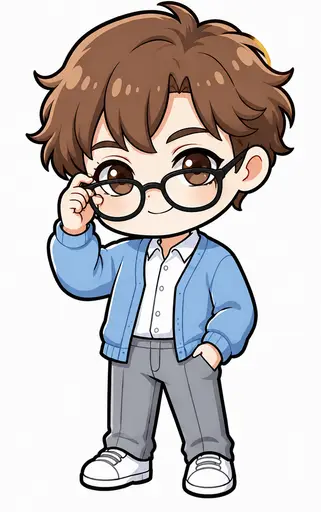
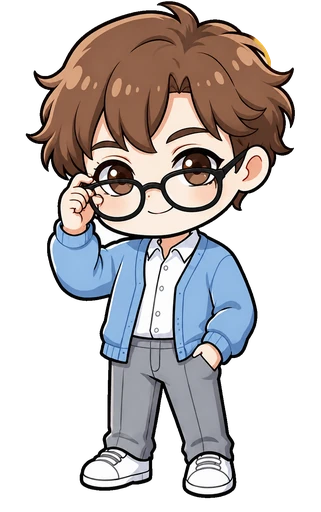
Add transparent character variants and PNG group delivery asset

diff --git a/NAVI-USAGE.md b/NAVI-USAGE.md
@@ -68,7 +68,7 @@ assets/characters/kai/fullbody/checking-note.png
 assets/web/characters/kai/fullbody/checking-note.webp
 ```
 
-WebP版は長辺最大512pxの配信用派生ファイルです。縦横比・透過状態を維持し、教材での52px前後の小表示から200〜400px程度の表示までを想定しています。原本PNGは高解像度表示、印刷、制作・再編集、WebPでは不足する特殊用途に限定します。
+WebP版は長辺最大512pxの配信用派生ファイルです。縦横比・透過状態を維持し、教材での52px前後の小表示から200〜400px程度の表示までを想定しています。`group-jumping`だけは、元画像がJPEGのため`assets/web/groups/group-jumping.png`を使用します。原本PNGは高解像度表示、印刷、制作・再編集、WebPでは不足する特殊用途に限定します。
 
 AIが教材を作成・修正するときは、理由なく1〜2MBの原本PNGを直接参照せず、対応するWebP URLを選択してください。既存のPNG URLは互換性のため維持し、教材リポジトリを移行するときもパスを推測せず`catalog.json`で対応を確認します。
 

diff --git a/AI-GUIDE.md b/AI-GUIDE.md
@@ -15,6 +15,7 @@
 7. 画像は教材側に複製せず、このリポジトリの公開済みURLを参照する。
 8. Web教材・GitHub Pagesでは、原則として`assets/web/`以下のWebP版を使う。理由なく1〜2MBの原本PNGを直接参照しない。
 9. 原本PNGは高解像度、印刷、制作・再編集、またはWebPでは解像度が不足する特殊な用途に限る。原本の削除・上書き・再圧縮はしない。
+10. 集合画像の`group-jumping`は配信用PNG、それ以外の配信用画像は対応するWebPを使用する。個人画像で白背景を透明化したものも、原本ではなく`assets/web/`の派生版である。
 
 ## キャラクター
 
